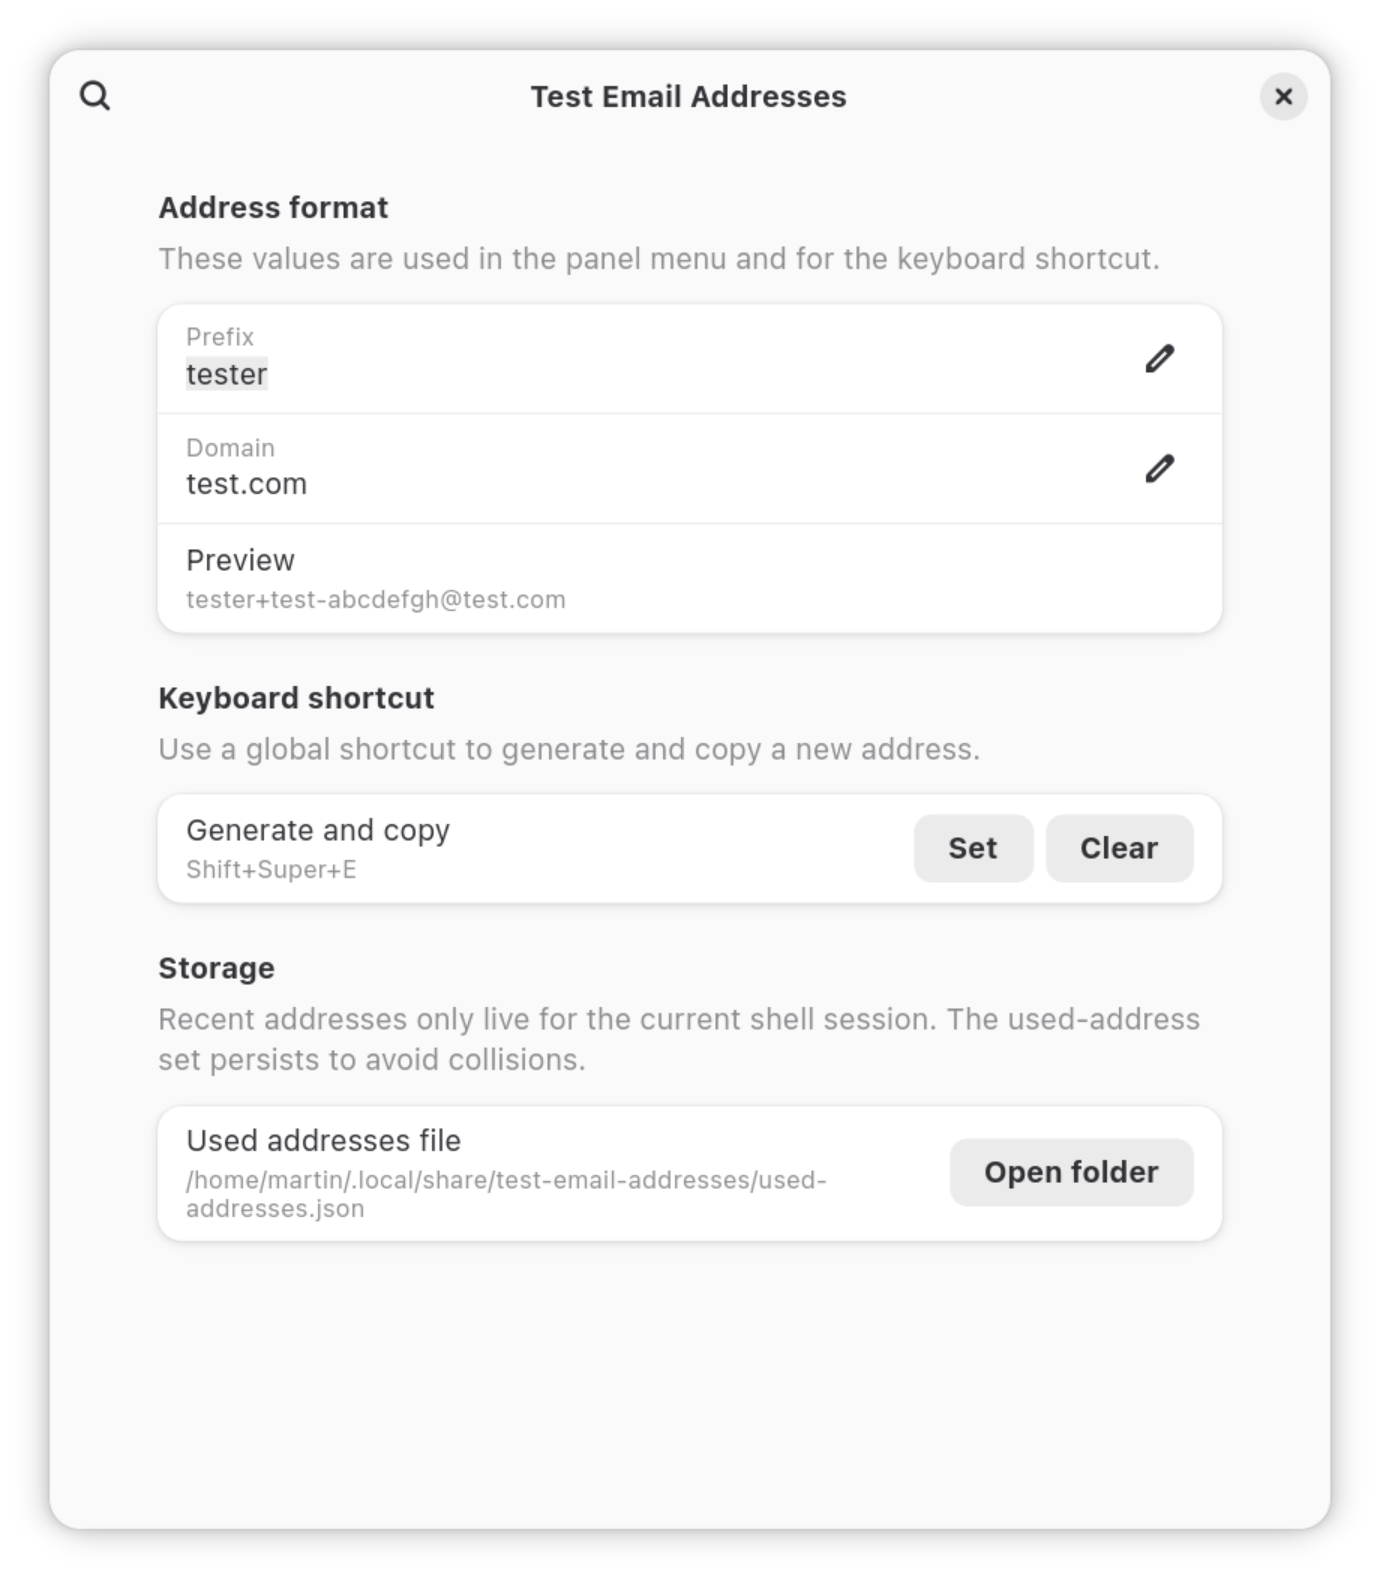
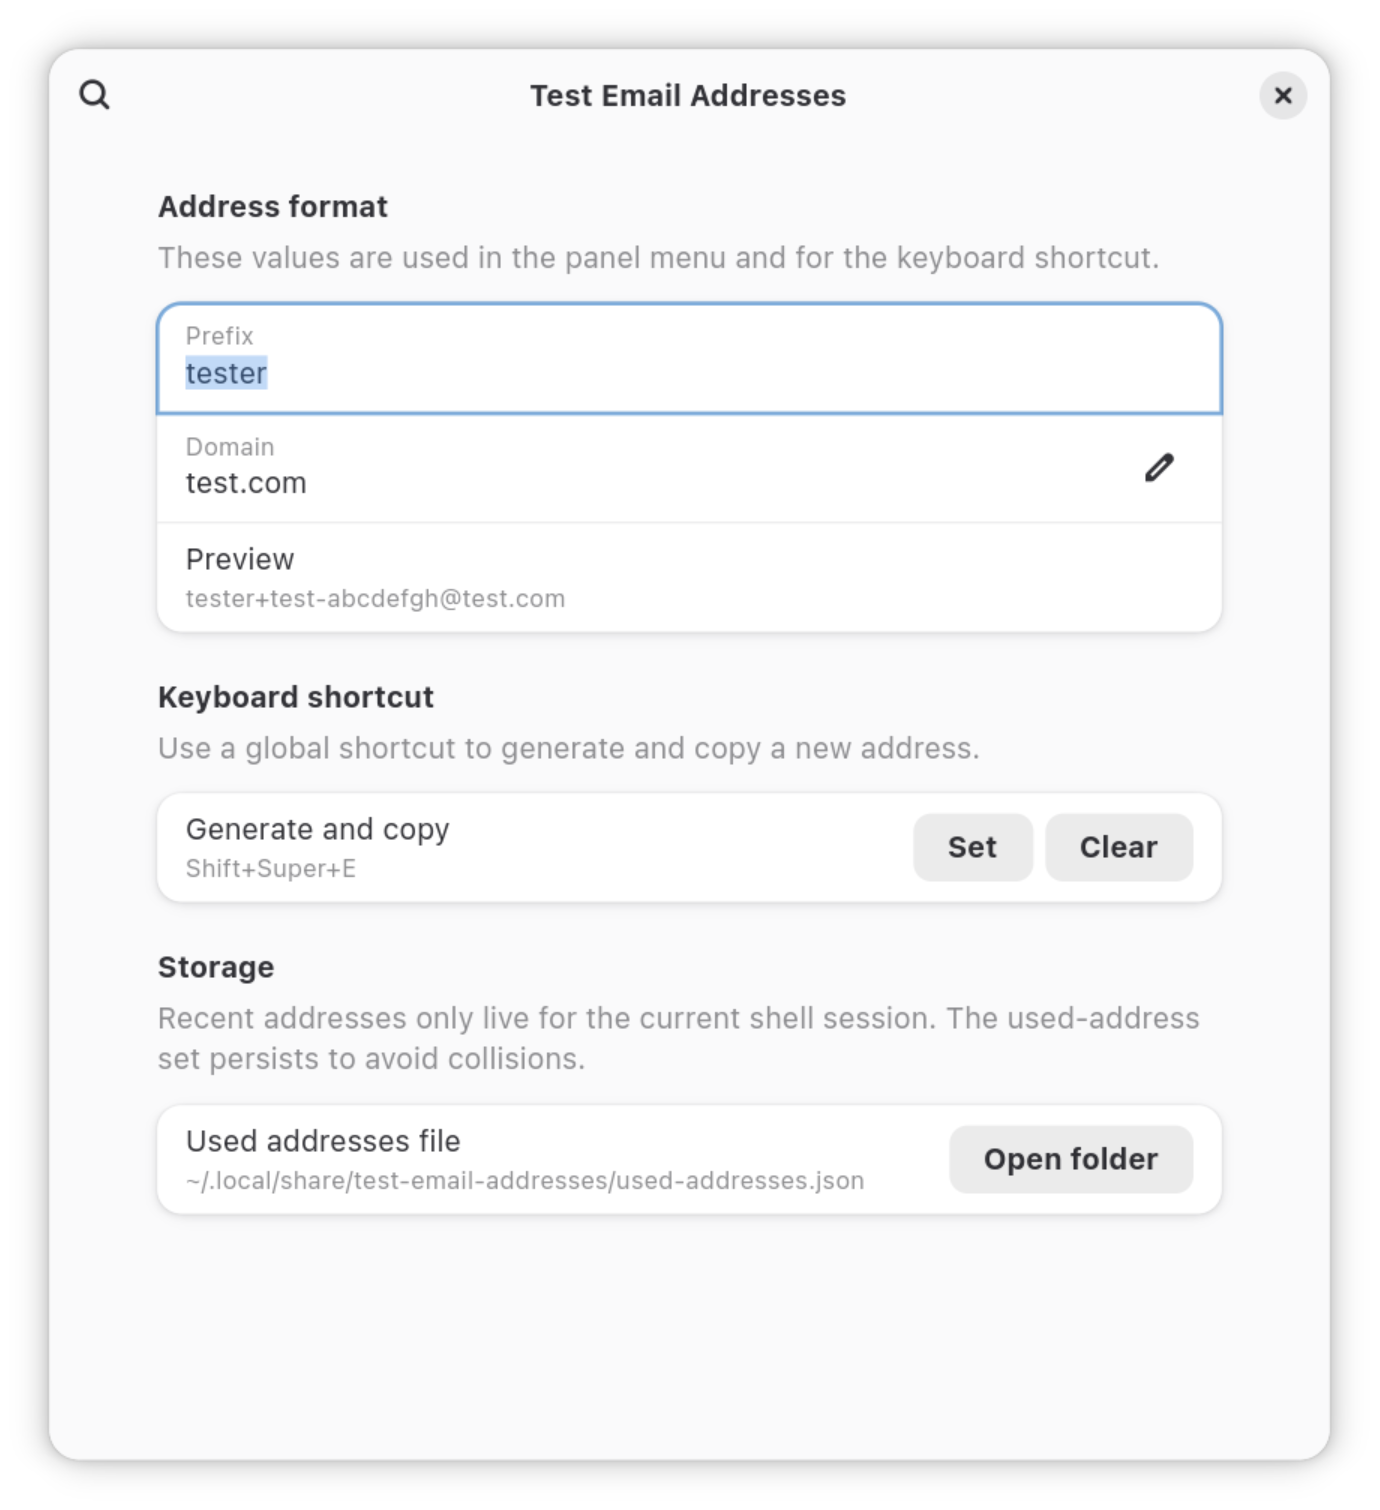
Tidy preferences storage path

diff --git a/prefs.js b/prefs.js
@@ -102,7 +102,7 @@ export default class TestEmailAddressesPreferences extends ExtensionPreferences 
         });
         const storageRow = new Adw.ActionRow({
             title: 'Used addresses file',
-            subtitle: getStoragePath(),
+            subtitle: getDisplayStoragePath(),
         });
         const openFolderButton = new Gtk.Button({
             label: 'Open folder',
@@ -196,4 +196,14 @@ function getShortcutLabel(settings) {
         return shortcut;
 
     return Gtk.accelerator_get_label(keyval, modifiers);
+}
+
+function getDisplayStoragePath() {
+    const homeDirectory = GLib.get_home_dir();
+    const storagePath = getStoragePath();
+
+    if (storagePath.startsWith(`${homeDirectory}/`))
+        return storagePath.replace(homeDirectory, '~');
+
+    return storagePath;
 }
